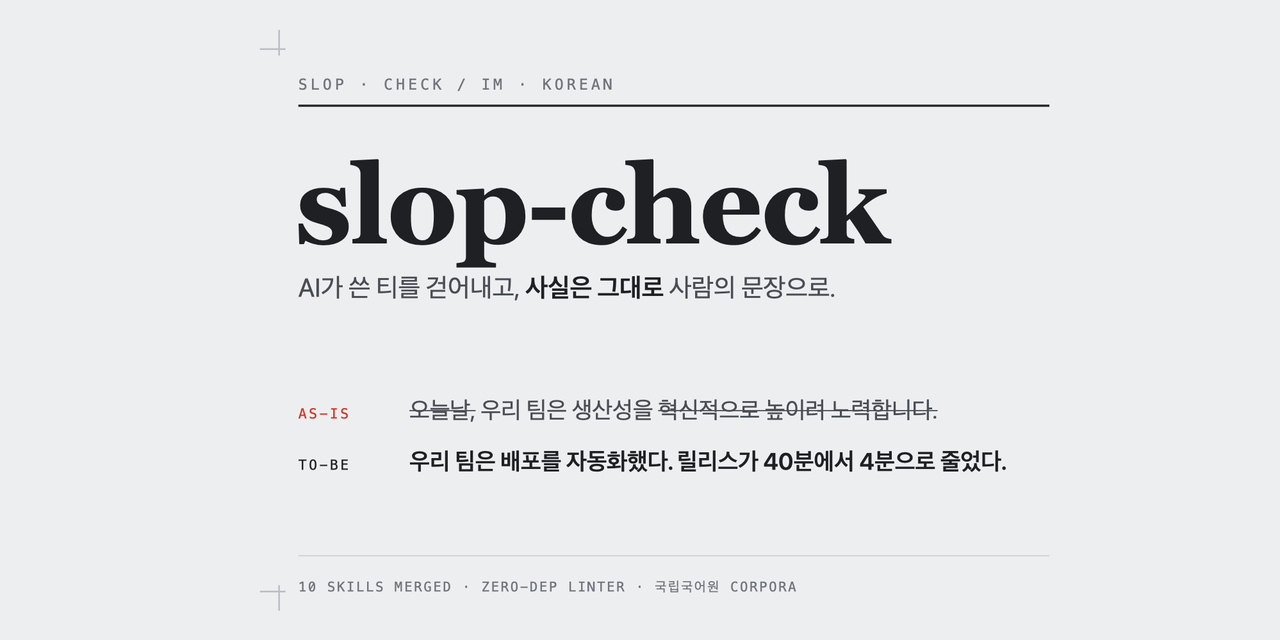
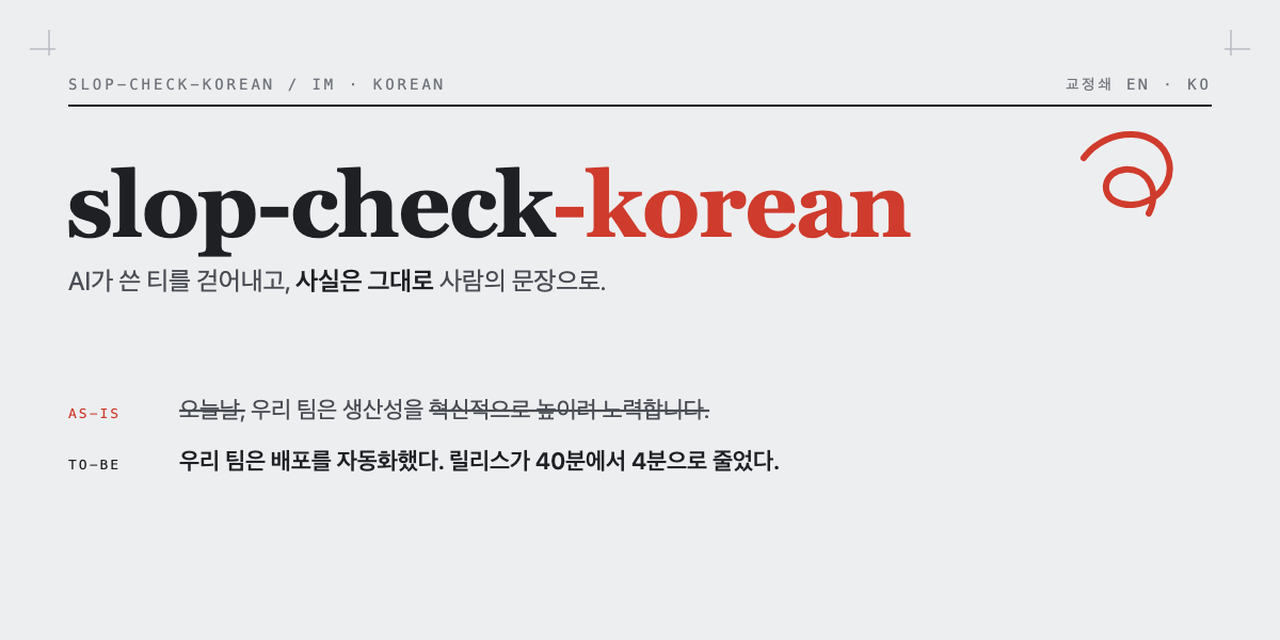
표지·파이프라인·프리뷰를 slop-check-korean으로, 파이프라인 우측 넘침 수정
- cover.svg 워드마크 slop-check-korean (86px, 우측 넘침 방지 크기 조정, -korean 빨강)
- pipeline.svg 출력·6단계 우측 정렬로 viewBox 넘침 해결 (fallback 폰트 대응)
- social-preview.png 헤드리스 크롬 실폰트 렌더 재생성 (1280x640)
- README H1 slop-check-korean

diff --git a/README.en.md b/README.en.md
@@ -1,5 +1,5 @@
 <p align="center">
-  <img src="assets/cover.svg" alt="slop-check, remove AI tells and correct Korean prose" width="880">
+  <img src="assets/cover.svg" alt="slop-check-korean, remove AI tells and correct Korean prose" width="880">
 </p>
 
 <p align="center">
@@ -9,7 +9,7 @@
   <img src="https://img.shields.io/badge/license-MIT-555">
 </p>
 
-# slop-check · IM-KOREAN
+# slop-check-korean
 
 > **한국어**: [`README.md`](README.md)
 

diff --git a/README.md b/README.md
@@ -9,7 +9,7 @@
   <img src="https://img.shields.io/badge/license-MIT-555">
 </p>
 
-# slop-check · IM-KOREAN
+# slop-check-korean
 
 > **English**: [`README.en.md`](README.en.md)
 
